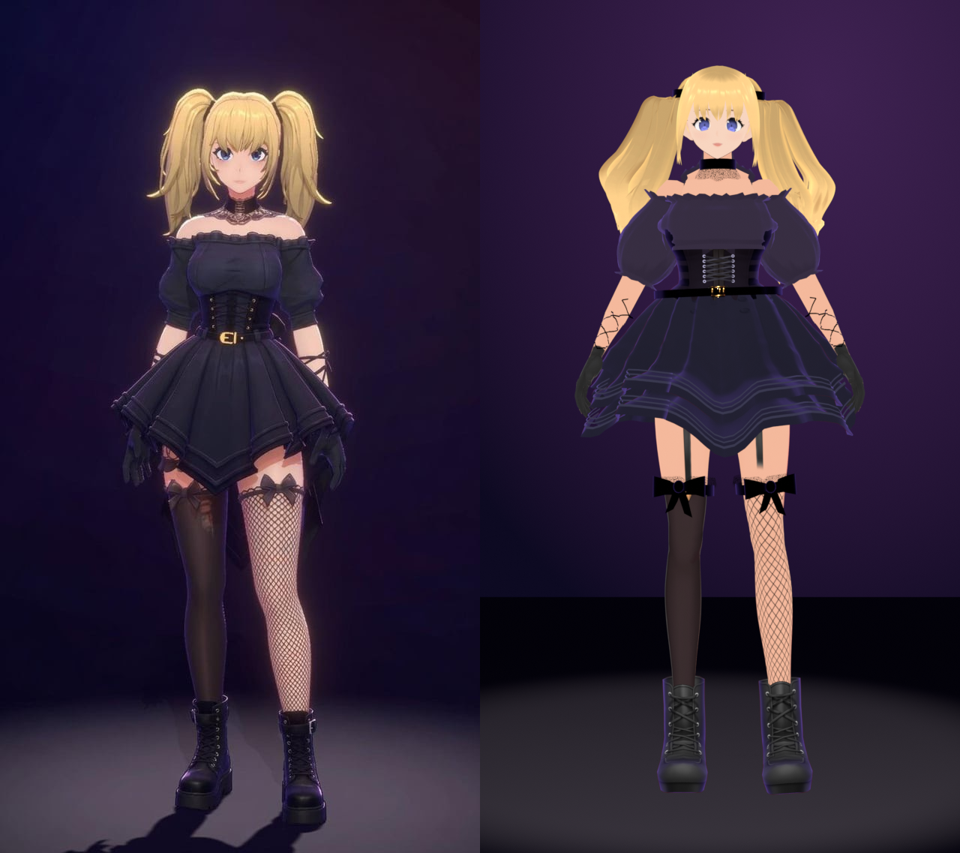
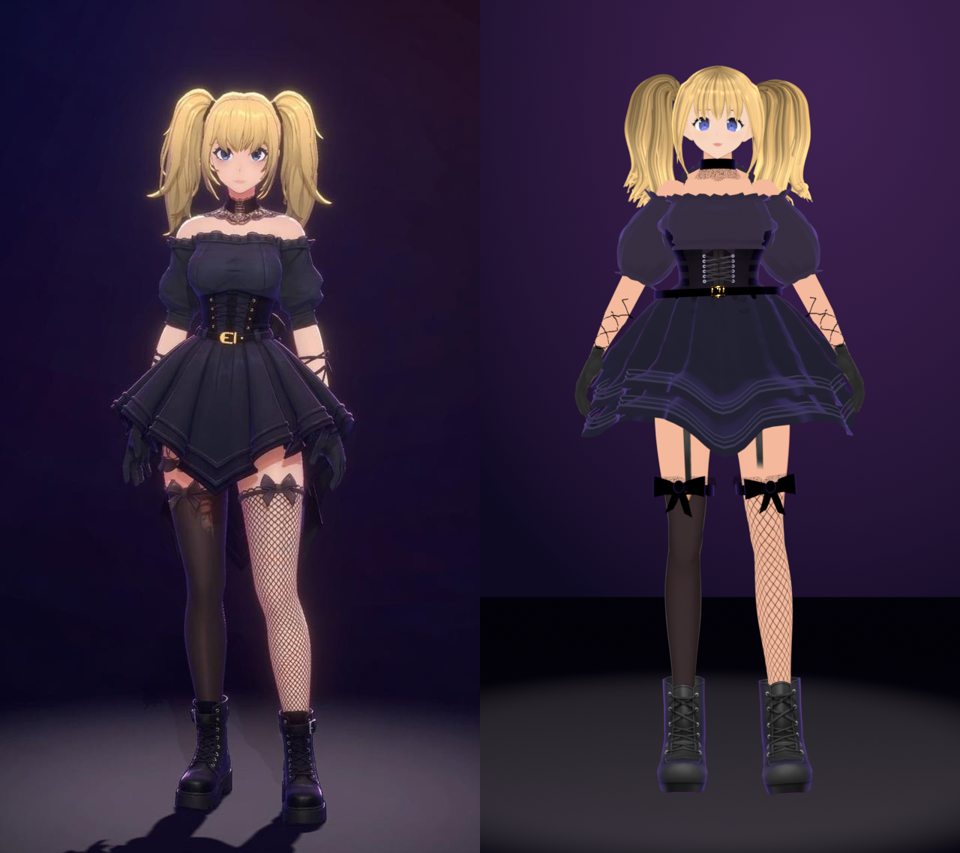
Goth agent hair: strand texture, arched twin tails, face-framing locks
- Hair texture repainted at 2x with clumps, fine strand lines, light
  streaks, darker root and a sheen band (VRoid's was a flat gradient);
  deeper ochre shade.
- Tails laid along an arc from the tie (rise 60 deg, turn over, 28 cm fall
  to the shoulders, 45 deg outward tip flick), cross-section carried
  through the arc. VRoid's curled strand ends are cut first (they scattered
  into shards), plus its root-cap cards at the ties and stray cards the old
  tails hid. Ties follow the tail's exit angle. Tuned against the full-length
  reference: tails span ~2.6 face widths and end at the shoulders.
- Face-framing locks fuller, pointed, running past the chin.

Claude-Session: https://claude.ai/code/session_011M9r3rTGgXhm4baeKDbpr3

Changed region(s): [[0.625, 0.061, 0.875, 0.2743]]

diff --git a/build/tools/blender-agent-refine.py b/build/tools/blender-agent-refine.py
@@ -32,24 +32,31 @@ p.add_argument('--skirt-hem', type=float, default=0.30)
 p.add_argument('--pleats', type=int, default=16); p.add_argument('--pleat-depth', type=float, default=0.038)
 p.add_argument('--cloth-toony', type=float, default=0.5)
 p.add_argument('--rim', type=float, default=0.55)          # strength of the built-in rim glow (0 = VRoid's)
-p.add_argument('--hair-shade', type=int, nargs=3, default=(150, 96, 44))   # sRGB shade colour for the hair   # VRoid cloth is 0.95 (hard cel); the reference is soft
+p.add_argument('--hair-lines', type=int, default=130)     # strand lines painted into the hair texture (0 = VRoid's)
+p.add_argument('--hair-clump', type=float, default=0.42); p.add_argument('--hair-sheen', type=float, default=0.10); p.add_argument('--hair-sheen-v', type=float, default=0.80)
+p.add_argument('--hair-shade', type=int, nargs=3, default=(140, 84, 40))   # sRGB shade colour for the hair   # VRoid cloth is 0.95 (hard cel); the reference is soft
 p.add_argument('--fishnet-cell', type=float, default=34); p.add_argument('--fishnet-width', type=float, default=3.2)   # texels at 2048
 p.add_argument('--blouse', type=int, default=1)            # fitted gathered blouse over the upper torso, straight neckline
 p.add_argument('--neckline-drop', type=float, default=0.034)   # neckline below the shoulder joints
 p.add_argument('--piping', type=int, nargs=3, default=(58, 57, 80))   # sRGB piping colour
 p.add_argument('--ruffle', type=float, default=0.022)     # hem frill depth under each skirt layer
 p.add_argument('--skirt-cuts', type=int, default=5); p.add_argument('--skirt-flare', type=float, default=0.8)     # bottom-tier hem radius
-p.add_argument('--tail-len', type=float, default=0.38)      # tie to tip, metres (--tail-tip overrides)
+p.add_argument('--tail-len', type=float, default=0.28)      # tie to tip, metres (--tail-tip overrides)
 p.add_argument('--tail-tip', type=float, default=0.0)
 p.add_argument('--tail-root', type=float, default=0.0);   # 0 = measure (top of the tail strands - 4 cm)
-p.add_argument('--tail-spread', type=float, default=0.095)  # how far each tail arcs out from its tie
+p.add_argument('--tail-spread', type=float, default=0.055)  # how far each tail arcs out from its tie
 p.add_argument('--tail-width', type=float, default=1.4)    # strand cross-section scale
 p.add_argument('--tail-flick', type=float, default=0.03)
+p.add_argument('--tail-flick-deg', type=float, default=45.0)
+p.add_argument('--tail-rise', type=float, default=60.0)   # angle the tails leave the ties at, above horizontal  # how far the tips turn outward
 p.add_argument('--tail-lift', type=float, default=0.035)   # how far the tails rise out of the ties before falling   # outward flick at the tips
 p.add_argument('--tail-fan', type=int, default=1)          # add two copies per strand with other spreads/lengths
 p.add_argument('--bangs', type=float, default=1.10)         # fringe length factor, from its hairline
 p.add_argument('--sidelocks', type=float, default=1.9)      # length factor for the outer fringe pieces (face-framing locks)
-p.add_argument('--crown', type=float, default=1.07)         # overall hair volume (not the tails)
+p.add_argument('--crown', type=float, default=1.07)
+p.add_argument('--lock-width', type=float, default=1.7)
+p.add_argument('--lock-drop', type=float, default=0.045)  # face-framing locks end this far below the chin
+p.add_argument('--root-tuck', type=float, default=0.35)   # shrink the tail roots above the tie toward it   # face-framing lock fullness         # overall hair volume (not the tails)
 p.add_argument('--tail-wave', type=float, default=0.008)
 p.add_argument('--stocking-top', type=float, default=0.0)   # 0 = detect from the skin texture
 p.add_argument('--thigh', type=float, default=0.10)         # extra thigh fullness (fraction, peaks mid-thigh)
@@ -168,6 +175,46 @@ tint('N00_007_01_Tops_01_CLOTH', (48, 46, 66))            # blouse: slate navy
 tint('N00_002_03_Tops_01_CLOTH_01', (34, 32, 48))         # skirt
 tint('N00_002_03_Tops_01_CLOTH_02', (30, 28, 40), 0.5)    # corset
 hue_shift('Hair_00_HAIR', -12, sat=0.80, val=1.32)        # yellow -> honey blonde
+def hair_strands(seed=7):
+    """Repaint the hair texture with strand detail. VRoid's is a flat gradient. The texture runs along each
+    strand (v: root at 1, tip at 0) and repeats across it (u), so everything here is periodic in u: clumps with
+    darker gaps, fine dark strand lines that run from the root and fade out, light streaks, a darker root,
+    and a broken sheen band. Result replaces the lit and shade textures (shade is multiplied by its colour)."""
+    m = next(x for x in bpy.data.materials if 'Hair_00_HAIR' in x.name and not x.name.startswith('MToon Outline'))
+    src = lit_image(m); W0, H0 = src.size; W, H = W0 * 2, H0 * 2
+    base = np.array(src.pixels[:], dtype=np.float32).reshape(H0, W0, 4)
+    base = base.repeat(2, 0).repeat(2, 1)                                     # 2x, then detail at full res
+    rng = np.random.default_rng(seed)
+    u = (np.arange(W) + 0.5) / W; v = (np.arange(H) + 0.5) / H              # v: 0 at the bottom row (tip)
+    U, V = np.meshgrid(u, v)
+    def wrapd(c): return np.abs(((U - c) + 0.5) % 1.0 - 0.5)                  # periodic distance across the strand
+    mult = np.ones((H, W), np.float32); add = np.zeros((H, W), np.float32)
+    # clumps: 7 per repeat, darker toward each clump edge, the gaps deepest near the root
+    ncl = 7; cl = np.abs(((U * ncl) % 1.0) - 0.5) * 2                          # 0 mid-clump .. 1 at the gap
+    mult *= 1 - a.hair_clump * np.clip(cl - 0.55, 0, 1) / 0.45 * (0.55 + 0.45 * V)
+    # fine dark lines from the root, fading out at random lengths
+    for _ in range(a.hair_lines):
+        c = rng.random(); w = rng.uniform(0.6, 2.2) / W; d = rng.uniform(0.10, 0.32); L = rng.uniform(0.35, 1.0)
+        fade = np.clip((V - (1 - L)) / 0.25, 0, 1)
+        mult *= 1 - d * np.exp(-(wrapd(c) / w) ** 2) * fade
+    # light streaks
+    for _ in range(a.hair_lines // 3):
+        c = rng.random(); w = rng.uniform(0.8, 2.5) / W; d = rng.uniform(0.05, 0.14); v0 = rng.uniform(0.15, 0.9); L = rng.uniform(0.2, 0.5)
+        env = np.clip(1 - np.abs(V - v0) / L, 0, 1) ** 1.5
+        add += d * np.exp(-(wrapd(c) / w) ** 2) * env
+    # darker root, a broken sheen band a little below it
+    mult *= 1 - 0.22 * np.clip((V - 0.90) / 0.10, 0, 1)
+    band = np.exp(-((V - a.hair_sheen_v) / 0.035) ** 2) * (0.55 + 0.45 * np.sin(U * 2 * np.pi * 11 + 3 * np.sin(U * 2 * np.pi * 3)))
+    add += a.hair_sheen * np.clip(band, 0, 1)
+    out = base.copy(); out[..., :3] = np.clip(base[..., :3] * mult[..., None] + add[..., None] * np.array([1.0, 0.93, 0.78]), 0, 1)
+    img = bpy.data.images.new('Hair strands', W, H, alpha=True); img.pixels[:] = out.ravel(); img.pack()
+    n = 0
+    for mm in bpy.data.materials:
+        if 'Hair_00_HAIR' in mm.name and mm.node_tree:
+            for nd in mm.node_tree.nodes:
+                if nd.type == 'TEX_IMAGE' and nd.image == src: nd.image = img; n += 1
+    print('HAIR STRANDS %dx%d, %d lines, relinked %d nodes' % (W, H, a.hair_lines, n))
+if a.hair_lines: hair_strands()
 hue_shift('EyeIris_00_EYE', 22, sat=0.5, val=1.3)          # lighter, greyer blue-violet        # vivid blue -> blue-violet
 WARM = (0.98, 0.80, 0.72)
 for m in bpy.data.materials:        # face: warm through the lit colour (nothing dark on it)
@@ -533,7 +580,7 @@ if a.blouse and a.underbust:
 
 # ------------------------------------------------------------------ 3. twin tails
 hb = bmesh.new(); hb.from_mesh(hair.data); hb.verts.ensure_lookup_table()
-seen = set(); tails = []; bangs = []; crown = []
+seen = set(); tails = []; bangs = []; crown = []; strays = []
 for v in hb.verts:
     if v.index in seen: continue
     st = [v]; comp = []; seen.add(v.index)
@@ -546,6 +593,7 @@ for v in hb.verts:
     if min(zz) < 1.2 + DZ and max(zz) - min(zz) > 0.3: tails.append(comp)          # real strands only (tiny cards hide at the chest)
     elif min(zz) > 1.40 + DZ and max(zz) > 1.55 + DZ and sum(c.co.y for c in comp) / len(comp) < -0.02: bangs.append(comp)
     elif min(zz) >= 1.2 + DZ: crown.append(comp)
+    elif len(comp) <= 12: strays.append(comp)
 ZP = a.tail_root or max(c.co.z for comp in tails for c in comp) - 0.04   # where VRoid gathers each tail bundle
 a.tail_tip = a.tail_tip or ZP - a.tail_len
 print('TAIL ROOT %.3f tip %.3f' % (ZP, a.tail_tip))
@@ -557,29 +605,83 @@ TIE = {k: sum(v, Vector()) / len(v) for k, v in TIE.items() if v}
 # Each strand is re-synthesised along a new centre line: kept as-is above the tie, then out and down in
 # an arc, cross-section tapering to a point, tip flicked outward. Copies with other spreads and lengths
 # fill the bundle out. (Compressing VRoid's long strands instead rolls their flared ends into balls.)
+def tail_path(R, drop, n=400):
+    """Centre line of a tail in the (outward, up) plane, from the tie: an arc of radius R leaving at 70 degrees
+    above horizontal and turning over to hang, a near-vertical fall, and an outward flick over the last part.
+    Returns arrays of (out, up, heading) sampled uniformly by arc length."""
+    th0, th1 = math.radians(a.tail_rise), math.radians(-82); sarc = R * (th0 - th1); ds = 0.001
+    pts = [(0.0, 0.0, th0)]; s_ = 0.0
+    while pts[-1][1] > -drop and len(pts) < 5000:
+        o, z, th = pts[-1]
+        if s_ < sarc: th = th0 - (th0 - th1) * s_ / sarc
+        else:
+            f = max(0.0, (-z - 0.72 * drop) / (0.28 * drop))                   # flick outward near the tip
+            th = th1 - math.radians(8) * min(1.0, (s_ - sarc) / 0.05) + math.radians(a.tail_flick_deg) * f ** 1.5
+        pts.append((o + ds * math.cos(th), z + ds * math.sin(th), th)); s_ += ds
+    P = np.array(pts); S = np.concatenate([[0], np.cumsum(np.hypot(np.diff(P[:, 0]), np.diff(P[:, 1])))])
+    t = np.linspace(0, S[-1], n)
+    return np.interp(t, S, P[:, 0]), np.interp(t, S, P[:, 1]), np.interp(t, S, P[:, 2])
+def geodesic(comp, T):
+    """Distance over the strand's mesh from the part above the tie."""
+    import heapq
+    ids = {c.index for c in comp}; vmap = {c.index: c for c in comp}
+    dist = {c.index: 0.0 for c in comp if c.co.z >= T.z}; heap = [(0.0, i) for i in dist]; heapq.heapify(heap)
+    while heap:
+        d, i = heapq.heappop(heap)
+        if d > dist.get(i, 1e9): continue
+        for e in vmap[i].link_edges:
+            o = e.other_vert(vmap[i])
+            if o.index in ids:
+                nd = d + (o.co - vmap[i].co).length
+                if nd < dist.get(o.index, 1e9): dist[o.index] = nd; heapq.heappush(heap, (nd, o.index))
+    return dist
 def synth(comp, side, spread, lenf, dy, width):
     T = TIE[side]; below = [c for c in comp if c.co.z < T.z]
-    if not below: return
+    if len(below) < 8: return
     zmin = min(c.co.z for c in below); D = T.z - zmin
     Z = np.array([c.co.z for c in below]); U = (T.z - Z) / D
     px_ = np.polyfit(U, [c.co.x for c in below], 4); py_ = np.polyfit(U, [c.co.y for c in below], 4)   # smooth centre line
     def cen_at(u): return float(np.polyval(px_, u)), float(np.polyval(py_, u))
     ox0, oy0 = cen_at(0.0)[0] - T.x, cen_at(0.0)[1] - T.y              # the strand's own place in the bundle at the tie
-    L = (T.z - a.tail_tip) * lenf
-    def centre(u):
-        out = spread * math.sin(math.pi * min(1.0, u / 0.8) * 0.5) ** 0.7 * (1 - 0.25 * max(0.0, u - 0.6) / 0.4)
-        flick = a.tail_flick * max(0.0, (u - 0.72) / 0.28) ** 2
-        wave = a.tail_wave * math.sin(2 * math.pi * 1.2 * u) * u
-        return (T.x + ox0 * (1 - 0.3 * u) + side * (out + flick + wave),
-                T.y + oy0 * (1 - 0.3 * u) + dy * min(1.0, u / 0.3) + 0.02 * u,
-                T.z - L * u + a.tail_lift * math.sin(math.pi * min(1.0, u / 0.45)) * (1 - u))   # puff up out of the tie first
+    PO, PZ, PT = tail_path(spread * 0.62, (T.z - a.tail_tip) * lenf); N = len(PO) - 1
     for c in below:
         d = T.z - c.co.z; u = d / D; cx0, cy0 = cen_at(u)
         w_ = min(1.0, d / 0.04)                                 # blend in just below the tie
-        taper = 1.0 if u < 0.5 else max(0.08, 1 - ((u - 0.5) / 0.5) ** 1.3 * 0.92)
-        nx, ny, nz = centre(u)
-        tx = nx + (c.co.x - cx0) * width * taper; ty = ny + (c.co.y - cy0) * width * taper
-        c.co = Vector((c.co.x + (tx - c.co.x) * w_, c.co.y + (ty - c.co.y) * w_, c.co.z + (nz - c.co.z) * w_))
+        taper = (0.75 + 0.25 * min(1.0, u / 0.25)) if u < 0.5 else max(0.08, 1 - ((u - 0.5) / 0.5) ** 1.3 * 0.92)
+        k = min(N, int(u * N)); o, z, th = PO[k], PZ[k], PT[k]
+        wave = a.tail_wave * math.sin(2 * math.pi * 1.2 * u) * u
+        n2 = Vector((side * -math.sin(th), 0, math.cos(th)))                   # across the strand, in the outward/up plane
+        centre = Vector((T.x + ox0 * (1 - 0.3 * u) + side * o, T.y + oy0 * (1 - 0.3 * u) + dy * min(1.0, u / 0.3) + 0.02 * u, T.z + z))
+        tgt = centre + n2 * (side * (c.co.x - cx0) * width * taper + wave) + Vector((0, (c.co.y - cy0) * width * taper, 0))
+        c.co = c.co.lerp(tgt, w_)
+# cut VRoid's curled strand ends first: past the lowest point along the strand the mesh turns back up,
+# and points at one height then come from different turns of the curl (they fly off as shards)
+ncut = 0; cut = []
+for comp in tails:
+    side = 1 if sum(c.co.x for c in comp) > 0 else -1; T = TIE[side]; dist = geodesic(comp, T)
+    if not dist: continue
+    dmax = max(dist.values()); nb = 30; zs = [[] for _ in range(nb + 1)]
+    for c in comp:
+        if c.index in dist: zs[min(nb, int(nb * dist[c.index] / dmax))].append(c.co.z)
+    cz = [sum(b) / len(b) if b else None for b in zs]
+    kmin = min((k for k in range(nb + 1) if cz[k] is not None), key=lambda k: cz[k])
+    lim = dmax * (kmin + 1) / nb
+    cut += [c for c in comp if dist.get(c.index, 0) > lim]
+    ncut += 1
+cutset = set(cut)
+bmesh.ops.delete(hb, geom=cut, context='VERTS')
+tails = [[c for c in comp if c not in cutset] for comp in tails]
+tails = [comp for comp in tails if len(comp) > 8]
+print('DECURL', ncut, 'strands,', len(cut), 'verts cut')
+# VRoid's little root-cap cards at each tail's gather point stand up as flat flaps once the tail is reshaped
+caps = [comp for comp in crown if len(comp) <= 4 and min((sum((c.co for c in comp), Vector()) / len(comp) - T).length for T in TIE.values()) < 0.05]
+strays += caps; crown = [comp for comp in crown if not any(comp is c_ for c_ in caps)]
+print('ROOT CAPS', len(caps))
+# the strand roots above the gather point stick out of the crown as flat flaps: draw them into the tie
+for comp in tails:
+    side = 1 if sum(c.co.x for c in comp) > 0 else -1; T = TIE[side]
+    for c in comp:
+        if c.co.z > T.z: c.co = T + (c.co - T) * a.root_tuck
 copies = 0; plan = []
 for comp in tails:
     side = 1 if sum(c.co.x for c in comp) > 0 else -1
@@ -602,19 +704,26 @@ for comp in bangs:
             if lock: c.co.x += side * 0.028 * t ** 1.2; c.co.y -= 0.006 * t
         c.co.x *= 1.03
 # temple locks: the side pieces in front of the ears run down to the jaw instead of stopping at the cheek
-FZ = min(v.co.z for v in bpy.data.objects['Face'].data.vertices) - 0.008; nl = 0
+FZ = min(v.co.z for v in bpy.data.objects['Face'].data.vertices) - a.lock_drop; nl = 0
 for comp in crown:
     mx = sum(c.co.x for c in comp) / len(comp); my = sum(c.co.y for c in comp) / len(comp); zz = [c.co.z for c in comp]
     if 0.045 < abs(mx) < 0.064 and my < 0.015 and min(zz) > FZ + 0.02 and max(zz) - min(zz) > 0.08:
         side = 1 if mx > 0 else -1; piv = max(zz) - 0.035; low = min(zz); f = (piv - FZ) / max(1e-4, piv - low); nl += 1
+        zc_ = np.array(zz); xs_ = np.polyfit(zc_, [c.co.x for c in comp], 2); ys_ = np.polyfit(zc_, [c.co.y for c in comp], 2)
         for c in comp:
             if c.co.z < piv:
-                t = (piv - c.co.z) / max(1e-4, piv - low); c.co.z = piv - (piv - c.co.z) * f
-                c.co.x += side * 0.016 * t ** 1.2; c.co.y -= 0.004 * t
+                t = (piv - c.co.z) / max(1e-4, piv - low)
+                cx_, cy_ = float(np.polyval(xs_, c.co.z)), float(np.polyval(ys_, c.co.z))
+                wid = a.lock_width * (1 if t < 0.65 else max(0.15, 1 - (t - 0.65) / 0.35))   # fuller locks, pointed tips
+                c.co.x = cx_ + (c.co.x - cx_) * wid; c.co.y = cy_ + (c.co.y - cy_) * wid
+                c.co.z = piv - (piv - c.co.z) * f
+                c.co.x += side * (0.020 * math.sin(math.pi * min(1.0, t)) - 0.010 * t ** 2)   # out past the cheek, in toward the chin
+                c.co.y -= 0.004 * t
 print('TEMPLE LOCKS', nl, 'down to %.3f' % FZ)
 for comp in crown:
     for c in comp: c.co = HC + (c.co - HC) * a.crown
-hb.to_mesh(hair.data); hair.data.update(); print('TAILS', len(tails), 'strands ->', a.tail_tip, '+', copies, 'fanned copies;', len(bangs), 'bang pieces;', len(crown), 'crown pieces')
+bmesh.ops.delete(hb, geom=[v for comp in strays for v in comp], context='VERTS')   # loose little cards the old long tails hid
+hb.to_mesh(hair.data); hair.data.update(); print('STRAYS removed', len(strays)); print('TAILS', len(tails), 'strands ->', a.tail_tip, '+', copies, 'fanned copies;', len(bangs), 'bang pieces;', len(crown), 'crown pieces')
 hb.free()
 
 # sheer stocking: the reference's dark thigh-high is brown-black with skin showing through
@@ -821,7 +930,10 @@ for k in range(2):
 rigged('Lace bib', lb, LACE, 'J_Bip_C_Neck')
 hmw = hair.matrix_world
 for side, c in TIE.items():
-    tb2 = bmesh.new(); ring(tb2, c, 0.030, 0.034, c.z - 0.010, c.z + 0.010, n=32)
+    tb2 = bmesh.new(); ring(tb2, Vector((0, 0, 0)), 0.024, 0.026, -0.008, 0.008, n=32)
+    th_ = math.radians(a.tail_rise * 0.6); axis_ = Vector((side * math.cos(th_), 0, math.sin(th_)))
+    rotm = Vector((0, 0, 1)).rotation_difference(axis_).to_matrix()
+    for v in tb2.verts: v.co = c + rotm @ v.co + axis_ * 0.006
     rigged('Hair tie ' + ('L' if side > 0 else 'R'), tb2, TOON, 'J_Bip_C_Head')
 if a.arm_out:
     for tag, sgn in (('L', 1), ('R', -1)):

diff --git a/design/blender/agent/README.md b/design/blender/agent/README.md
@@ -149,21 +149,30 @@ reference picture:
   violet on the cloth for the reference's backlit glow. Skin is warmed in
   its texture, light texels only: VRoid paints the gloves dark grey into
   the same texture, and a warm tint or a skin rim turns them brown.
-- **Hair**: each twin-tail strand is rebuilt along a new centre line from
-  its gather point on the head top (measured per model): a smooth curve is
-  fitted through the VRoid strand, then the strand is laid out 38 cm down
-  in an outward arc that first rises out of the tie, its cross-section
-  tapering to a point with a small outward flick at the tip. Two copies of every strand with other spreads
-  and lengths fill the bundle out and stagger the tips. (Squashing VRoid's
-  long strands instead rolled their flared ends into round balls.) Black
-  hair ties sit at the gather point; the hair is shifted to honey blonde
-  with a warm ochre shade, and the irises to blue-violet. The tail twist
-  set in VRoid is back at 0.
-  The fringe is lengthened from its hairline and its outer pieces become
-  face-framing locks; the side pieces in front of the ears run down to
-  the jaw. The crown is scaled up a little for volume. Black
-  hair ties sit at the gather point. The hair texture is shifted to honey
-  blonde and the irises to blue-violet.
+- **Hair texture**: VRoid's hair texture is a flat gradient, so it is
+  repainted at twice the resolution with strand detail. The texture runs
+  along each strand (root at the top of the image) and repeats across it,
+  so everything is periodic across: seven clumps per repeat with darker
+  gaps, 130 fine dark lines that run from the root and fade out, lighter
+  streaks, a darker root and a broken sheen band. It replaces both the lit
+  and the shade texture; the shade colour is a warm ochre.
+- **Twin tails**: VRoid's curled strand ends are cut off first (past its
+  lowest point along the mesh a curled strand turns back up, and a
+  height-based reshape then scatters it into shards), along with its
+  little root-cap cards at each gather point and loose cards the old long
+  tails hid. Each strand is then laid along a path from its gather point:
+  an arc that leaves the tie 60 degrees up and turns over to hang, a fall
+  of 28 cm to the tops of the shoulders, and a 45-degree outward flick of
+  the tips, with the cross-section carried across the arc and tapering to
+  a point. Two copies of every strand with other spreads and lengths fill
+  the bundle out. The ties wrap around the tails at the angle they leave
+  the head. Measured against the reference at full length: the tails
+  span about 2.6 face-widths and end at the shoulders.
+- **Fringe and locks**: the fringe is lengthened from its hairline; the
+  side pieces in front of the ears become fuller face-framing locks that
+  run 4.5 cm past the chin, bowing out past the cheek and in toward the
+  chin with pointed ends. The crown is scaled up a little. The hair is
+  shifted to honey blonde and the irises to blue-violet.
 - **Accessories**: satin choker with a see-through lace frill and a lace bib,
   a belt with a gold buckle, stocking bands with bows, and thin forearm
   lacing that zigzags across the front of each forearm in X's, each point
@@ -203,5 +212,6 @@ blender -b --python build/tools/blender-agent-avatar.py -- --blend R/agent.blend
 
 `vroid-full.png` is the character sheet, `vroid-compare.png` puts it
 beside the reference and `vroid-face-compare.png` does the same for the head (`vroid-bust.png` / `vroid-speaking.png` are from the
-earlier, unrefined clip). What still differs: the reference's hair is denser strand for strand and
-its skirt layers are separate sewn ruffles with a deeper stack of piping.
+earlier, unrefined clip). `vroid-hair-angles.png` shows the hair from the side, back and above.
+What still differs: the reference is rendered with a soft glow and
+film-like lighting, and its lace has floral motifs.
